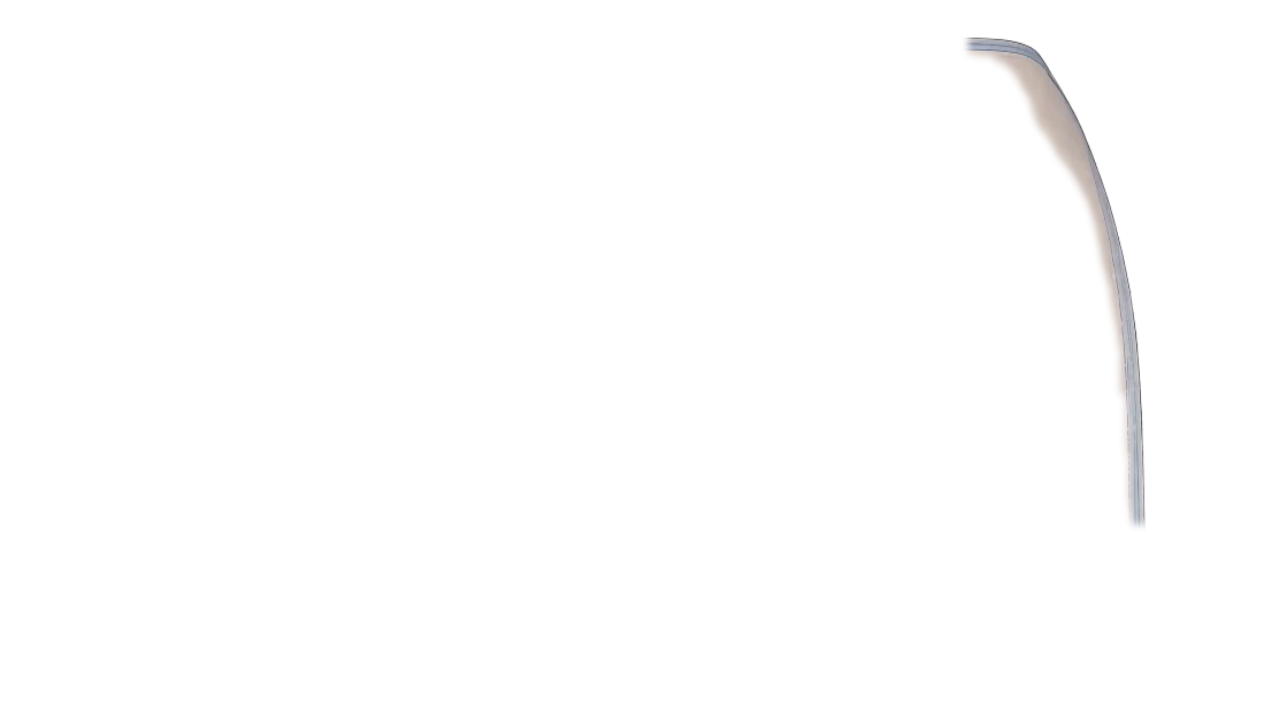
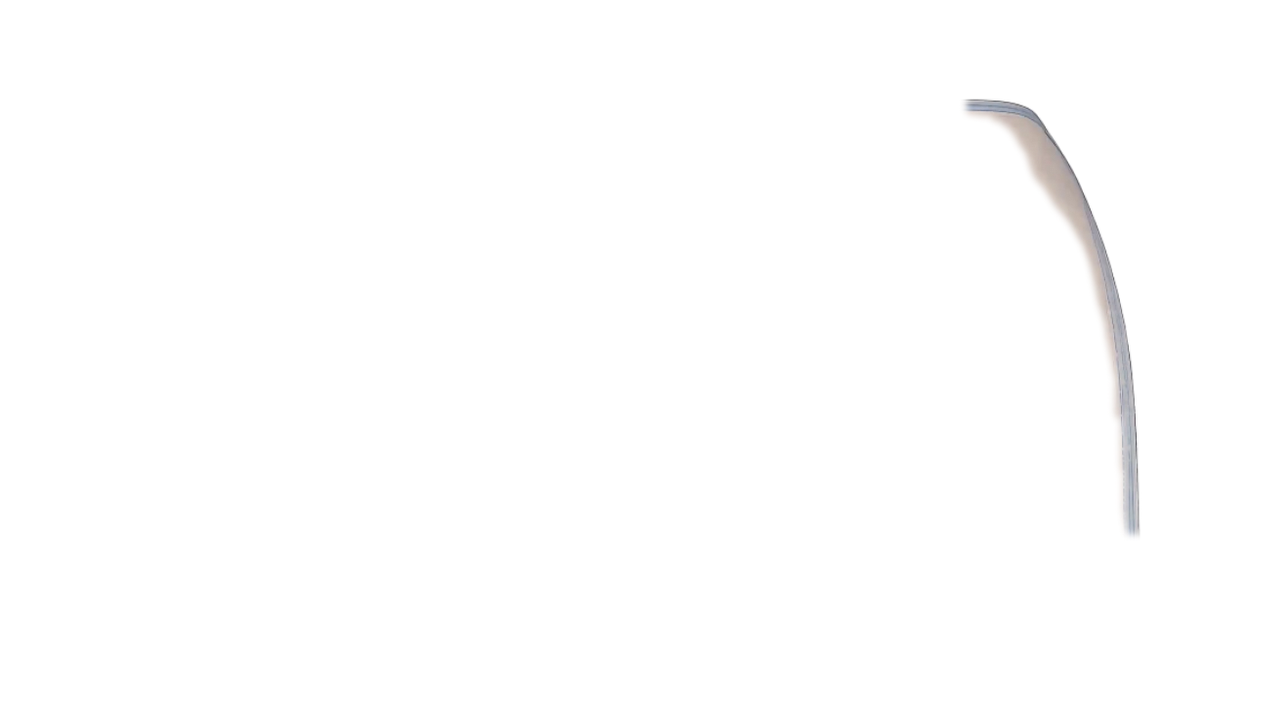
完善图鉴翻页尺寸与连续交互效果

Changed region(s): [[0.75, 0.0306, 0.9062, 0.7639]]

diff --git a/Assets/Scripts/HouseUI/CodexPageFlip.cs b/Assets/Scripts/HouseUI/CodexPageFlip.cs
@@ -37,10 +37,8 @@ namespace MasterHouse
         private const float PageBottom = .119f;
         private const float PageTop = .8295f;
 
-        /// <summary>换页时刻（进度 0~1）：纸飞到中途、最吸睛的一瞬。</summary>
+        /// <summary>换页时刻（进度 0~1）：纸飞到中途、且两侧内容都已经隐藏。</summary>
         private const float SwapAt = .5f;
-        /// <summary>换页前后内容快速压暗再回来的半窗（进度）。</summary>
-        private const float SwapDip = .12f;
 
 
         /// <summary>裁切窗：翻页时它的左右边跟着纸的前缘收，内容被切掉的地方就露出空白书页。</summary>
@@ -58,14 +56,13 @@ namespace MasterHouse
         /// <summary>翻动的那张纸；pivot 在书脊上，横向缩放 1 → 0 就是被掀过去。</summary>
         private RectTransform sheet;
         private Sequence sequence;
-        /// <summary>连点时最新一次翻页的令牌：内容的显隐只听最新那次的。</summary>
-        private int turnToken;
-
         /// <summary>一层并发的翻页动画：整幅只有那张纸（其余透明），直接叠在 UI 上。</summary>
         private sealed class TurnLayer
         {
             public RectTransform rect;
             public RawImage image;
+            public float progress;
+            public bool reversed;
         }
         private readonly List<TurnLayer> turnLayers = new List<TurnLayer>();
         private RectTransform turnLayerRoot;
@@ -193,40 +190,92 @@ namespace MasterHouse
         public void Play(Action swap, bool reversed = false)
         {
             if (turnLayerRoot == null || CodexPageTurnFrames.Count == 0) { PlayFallback(swap); return; }
-            SetContentAlpha(1f);
             SyncSize();
             var layer = TakeLayer();
-            var token = ++turnToken;
+            layer.reversed = reversed;
+            RefreshContentAlpha();
             var swapped = false;
             Sequence seq = null;
             seq = DOTween.Sequence().SetUpdate(true).SetLink(gameObject);
             sequence = seq;
             seq.Append(DOTween.To(() => 0f, t =>
             {
+                layer.progress = t;
                 var frame = CodexPageTurnFrames.Sample(t, reversed);
-                if (frame != null) layer.image.texture = frame;
+                layer.image.texture = frame;
+                layer.image.enabled = frame != null;
                 if (!swapped && t >= SwapAt) { swapped = true; swap?.Invoke(); }
-                // 换页那一瞬内容压暗再回来；只有最新一层有权动内容
-                if (token == turnToken)
-                    SetContentAlpha(Mathf.Clamp01(Mathf.Abs(t - SwapAt) / SwapDip));
+                // 连续滚动时可能同时有多张纸在翻。内容亮度取所有活动层中的最低值，
+                // 新层从 0 开始不会把旧层正在进行的压暗瞬间顶回全亮。
+                RefreshContentAlpha();
             }, 1f, TurnSeconds).SetEase(Ease.Linear));
             seq.OnComplete(() =>
             {
+                layer.image.enabled = false;
                 layer.rect.gameObject.SetActive(false);
-                if (token == turnToken) { sequence = null; SetContentAlpha(1f); }
+                if (sequence == seq) sequence = null;
+                RefreshContentAlpha();
             });
             seq.OnKill(() =>
             {
+                layer.image.enabled = false;
                 layer.rect.gameObject.SetActive(false);
                 if (!swapped) { swapped = true; swap?.Invoke(); } // 中断也要把这页落上
-                if (token == turnToken) SetContentAlpha(1f);
+                if (sequence == seq) sequence = null;
+                RefreshContentAlpha();
             });
         }
 
         private void SetContentAlpha(float alpha)
         {
-            if (leftGroup != null) leftGroup.alpha = alpha;
-            if (rightGroup != null) rightGroup.alpha = alpha;
+            SetContentAlpha(alpha, alpha);
+        }
+
+        private void SetContentAlpha(float leftAlpha, float rightAlpha)
+        {
+            if (leftGroup != null) leftGroup.alpha = leftAlpha;
+            if (rightGroup != null) rightGroup.alpha = rightAlpha;
+        }
+
+        /// <summary>
+        /// 合并所有并发翻页层的内容显隐。正放时纸从右页掀起，所以右页先淡出、
+        /// 左页稍后淡出；倒放反过来。换页发生时两侧均已隐藏，新内容再按纸移开的
+        /// 顺序逐侧浮现。不能只听最后一次输入，否则连续滚轮会产生亮闪。
+        /// </summary>
+        private void RefreshContentAlpha()
+        {
+            var leftAlpha = 1f;
+            var rightAlpha = 1f;
+            foreach (var layer in turnLayers)
+            {
+                if (layer.rect == null || !layer.rect.gameObject.activeSelf) continue;
+                var early = ContentAlpha(layer.progress, true);
+                var late = ContentAlpha(layer.progress, false);
+                leftAlpha = Mathf.Min(leftAlpha, layer.reversed ? early : late);
+                rightAlpha = Mathf.Min(rightAlpha, layer.reversed ? late : early);
+            }
+            SetContentAlpha(leftAlpha, rightAlpha);
+        }
+
+        /// <summary>
+        /// 一侧页面的平滑显隐曲线。early=true 是纸先经过的那一侧；
+        /// 中间留出隐藏平台，保证 Refresh 在 SwapAt 换内容时不会被看见。
+        /// </summary>
+        private static float ContentAlpha(float progress, bool early)
+        {
+            var fadeOutStart = early ? .10f : .25f;
+            var hiddenAt = early ? .38f : .46f;
+            var revealAt = early ? .52f : .58f;
+            var revealEnd = early ? .70f : .82f;
+            if (progress <= fadeOutStart) return 1f;
+            if (progress < hiddenAt)
+                return 1f - Mathf.SmoothStep(0f, 1f,
+                    Mathf.InverseLerp(fadeOutStart, hiddenAt, progress));
+            if (progress <= revealAt) return 0f;
+            if (progress < revealEnd)
+                return Mathf.SmoothStep(0f, 1f,
+                    Mathf.InverseLerp(revealAt, revealEnd, progress));
+            return 1f;
         }
 
         /// <summary>取一层空闲的翻页层（都在忙就新建），并压到容器最上——新纸盖在旧纸上面。</summary>
@@ -243,7 +292,11 @@ namespace MasterHouse
             }
             // 分帧与底图同一套构图、同为 16:9：照抄底图的 cover 裁切就严丝合缝
             if (background != null) layer.image.uvRect = background.uvRect;
+            // RawImage 在 texture 为空但 enabled=true 时会画一块默认白色。连续滚动复用层时，
+            // 必须先隐藏，等本次动画的首帧纹理赋好后再显示。
+            layer.image.enabled = false;
             layer.image.texture = null;
+            layer.progress = 0f;
             layer.rect.SetAsLastSibling();
             layer.rect.gameObject.SetActive(true);
             return layer;
